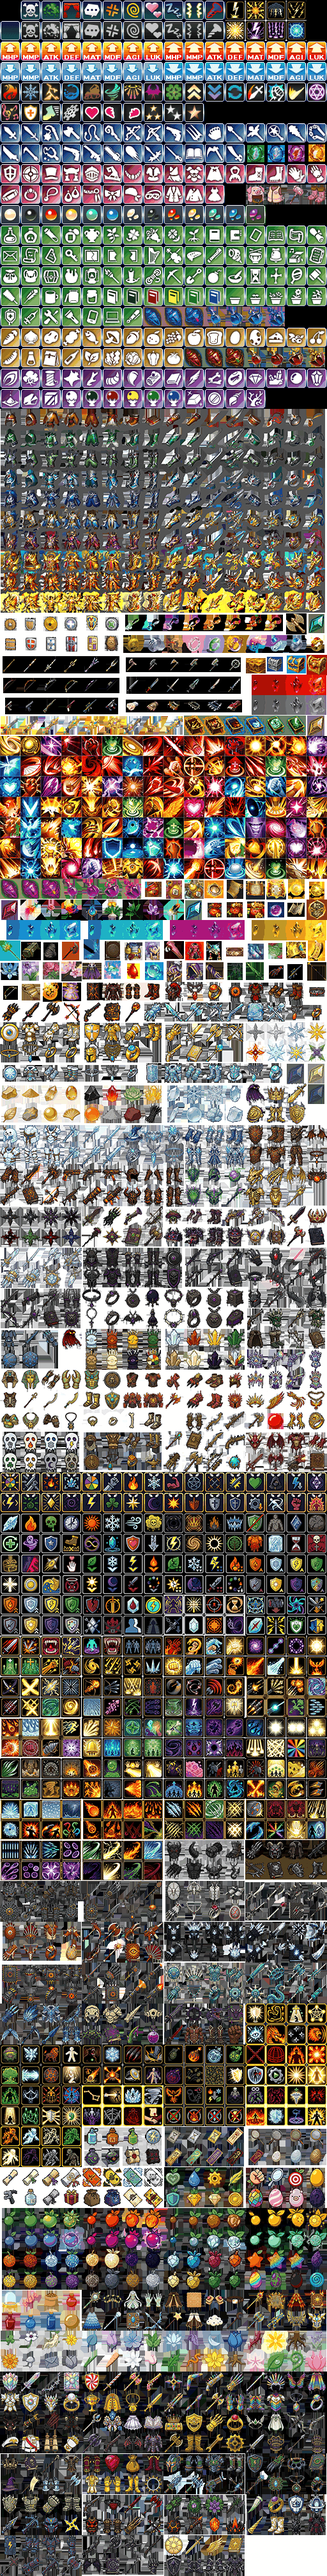
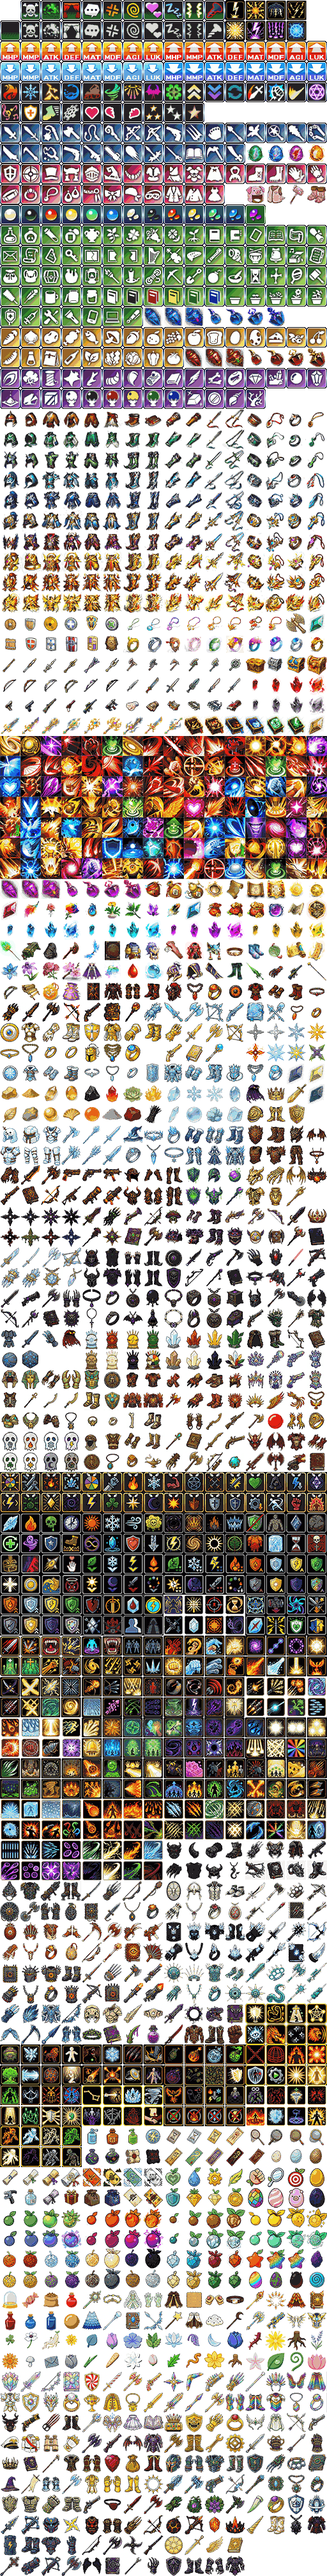
修复图标不可见：量化前 convert(RGB) 丢掉了 alpha，透明背景变成不透明近白色；改用带 alpha 的 FASTOCTREE（体积 1.05MB→0.64MB），并加写完自查断言

diff --git a/tools/build-gamedata.py b/tools/build-gamedata.py
@@ -792,13 +792,27 @@ def main():
                     from PIL import Image
                     import io
                     im = Image.open(io.BytesIO(png)).convert("RGBA")
-                    # 图标雪碧图有 80 多万种颜色（抗锯齿/渐变），RGBA 直存要 4MB。
-                    # 量化到 256 色后约 1MB，32×32 的小图标看不出差别 —— 而这文件
-                    # 只要展示图标就会加载一次，体积值得优化。
-                    im.convert("RGB").quantize(colors=256, method=Image.MEDIANCUT,
-                                               dither=Image.NONE).save(dst, "PNG", optimize=True)
-                    log(f"图标：{w}x{h}，{icon_meta['count']} 个（{w // ICON_CELL} 列 × {h // ICON_CELL} 行）"
-                        f"  解密 {len(png) / 1048576:.2f}MB → 量化 256 色 {os.path.getsize(dst) / 1048576:.2f}MB")
+                    # ⚠ 这里**不能**先 convert("RGB")：
+                    #    图标的背景是「透明白」(255,255,255,0)，convert("RGB") 会丢掉 alpha，
+                    #    透明背景变成不透明的近白色 —— 图标于是在浅色纸面上彻底看不见，
+                    #    而且**不会报任何错误**（我踩过：页面结构、图标元素、请求全都正常，
+                    #    就是看不见）。FASTOCTREE 的调色板量化支持 alpha，体积反而更小。
+                    im.quantize(colors=256, method=Image.FASTOCTREE).save(
+                        dst, "PNG", optimize=True)
+
+                    # 写完自查：抽一格确认背景仍是透明的。
+                    # 这类「静默失效」必须靠断言拦，人眼在低分辨率截图上根本看不出来。
+                    chk = Image.open(dst).convert("RGBA")
+                    sample = chk.crop((192, 1088, 224, 1120))
+                    px = list(sample.getdata())
+                    transparent = sum(1 for q in px if q[3] == 0)
+                    if transparent < 100:
+                        log(f"  ✗ 图标雪碧图丢失透明度（该格只有 {transparent}/1024 个透明像素）"
+                            f" —— 图标会在浅色背景上不可见，请检查量化方式")
+                        return 1
+                    log(f"图标：{w}x{h}，{icon_meta['count']} 个（{w // ICON_CELL} 列 × "
+                        f"{h // ICON_CELL} 行）  解密 {len(png) / 1048576:.2f}MB → "
+                        f"量化 {os.path.getsize(dst) / 1048576:.2f}MB（透明度已校验）")
                 except ImportError:
                     open(dst, "wb").write(png)
                     log(f"图标：{w}x{h}（没装 Pillow，直接写原图 {len(png) / 1048576:.2f}MB）")
